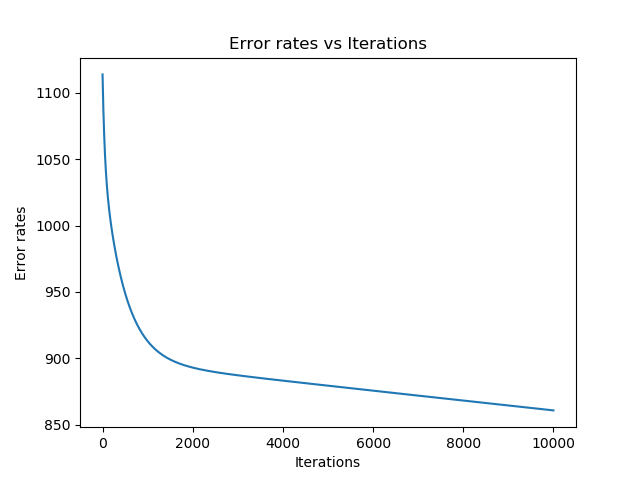
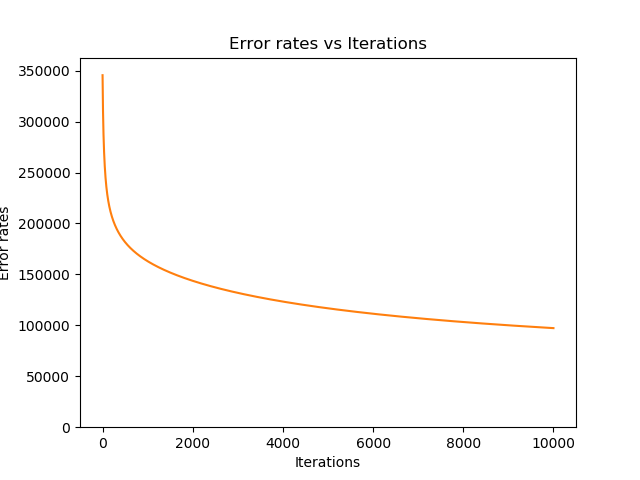
Updating

diff --git a/code/movie_recommend.py b/code/movie_recommend.py
@@ -11,7 +11,6 @@ from utils import (
     analyis,
     indicator_matrix,
     loading_data,
-    rating_matrix,
     train_test_split,
     plot_error,
     show_rating
@@ -77,8 +76,8 @@ def recommend(users, movies, user_id, user_rating):
 
 def main():
 
-    rating_path = "/home/acer/Desktop/Movie-Recommendation/ratings.csv"
-    movie_path = "/home/acer/Desktop/Movie-Recommendation/movies.csv"
+    rating_path = "dataset/ratings.csv"
+    movie_path = "dataset/movies.csv"
 
     epochs = 10000
 
@@ -87,17 +86,16 @@ def main():
         if status == False:
             return "Path doesn't exist"
 
-        user_rating = np.zeros(
-            (len(np.unique(ratings["userId"])), len(np.unique(ratings["movieId"])))
-        )
+        user_rating = ratings.pivot(index='userId', columns='movieId', values='rating')
+        user_rating = user_rating.fillna(0)
+        user_rating = user_rating.values
+
         train = np.zeros(user_rating.shape)
         test = np.zeros(user_rating.shape)
 
         show_rating(ratings)
 
         analyis(ratings, movies_data)
-
-        rating_matrix(ratings, user_rating)
         train_test_split(user_rating, train, test)
 
         Itrain = indicator_matrix(train)
@@ -126,6 +124,7 @@ def main():
             print("\n", temp["movieId"], "\t\t\t", temp["title"])
 
         return "Successfully build"
+
     except Exception as e:
         print("Caught an Exception : ", e)
         print("Build Failed !!!!!!!!!!!!!!")

diff --git a/code/utils.py b/code/utils.py
@@ -76,8 +76,8 @@ def train_test_split(user_rating, train, test):
     non_zero = []
     for i in range(user_rating.shape[0]):
         for j in range(user_rating.shape[1]):
-            if user_rating[i, j] != 0:
-                non_zero.append([i, j])
+            if user_rating[i][j] != 0:
+                non_zero.append([i , j])
     k = 0
     while k <= t:
         i = random.randint(1, len(non_zero) - 1)
@@ -89,11 +89,3 @@ def train_test_split(user_rating, train, test):
 
     for i in non_zero:
         test[i[0], i[1]] = user_rating[i[0], i[1]]
-
-
-def rating_matrix(ratings, user_rating):
-    for i in np.unique(ratings["userId"]):
-        k = ratings[ratings["userId"] == i]
-    for j in range(len(k)):
-        if k["movieId"].iloc[j] - 1 <= 9742:
-            user_rating[i - 1, k["movieId"].iloc[j] - 1] = k["rating"].iloc[j]
